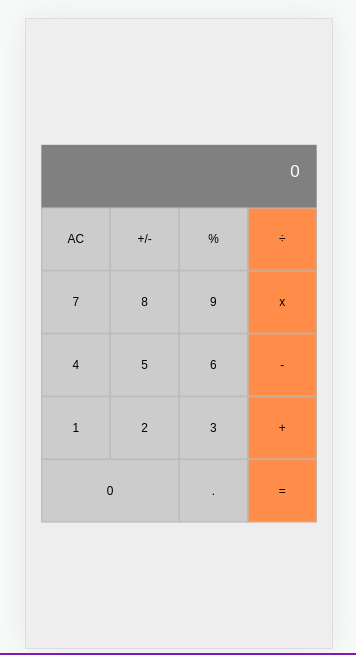
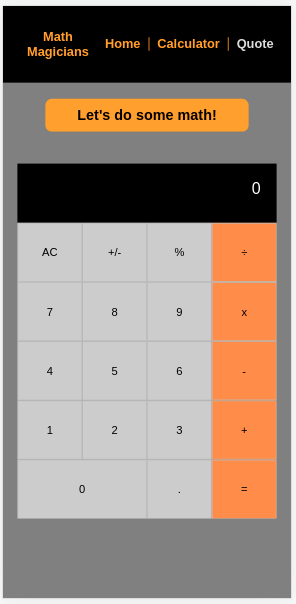
Doc(README.md): [Update readme file whit new screenshots]

diff --git a/README.md b/README.md
@@ -15,7 +15,7 @@
 
 - Desktop version
 
-![screenshot](./src/assets/screenshot.png)
+![screenshot](./src/assets/screenshot-desktop.png)
 
 ## Built With
 
